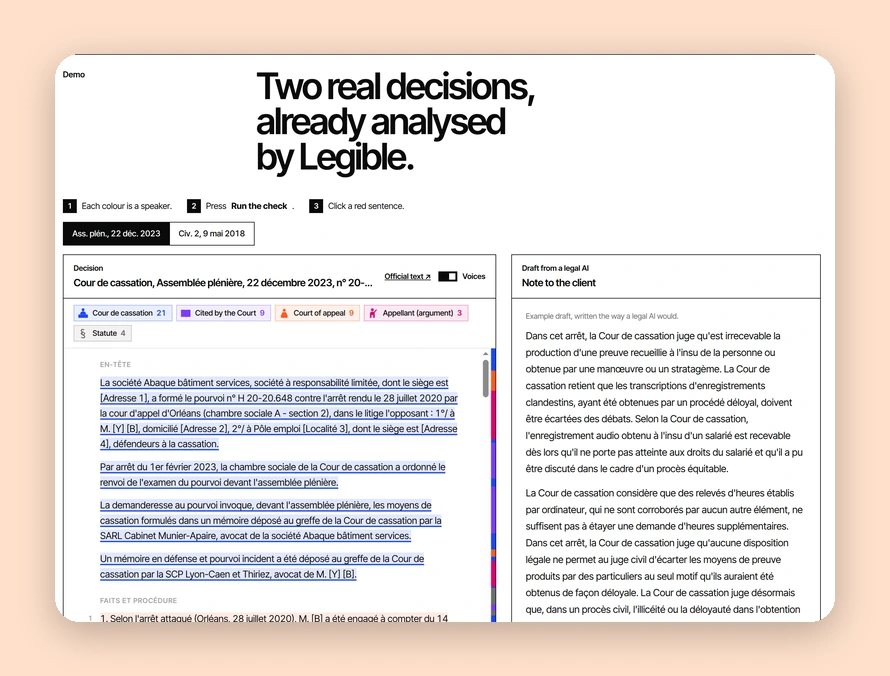
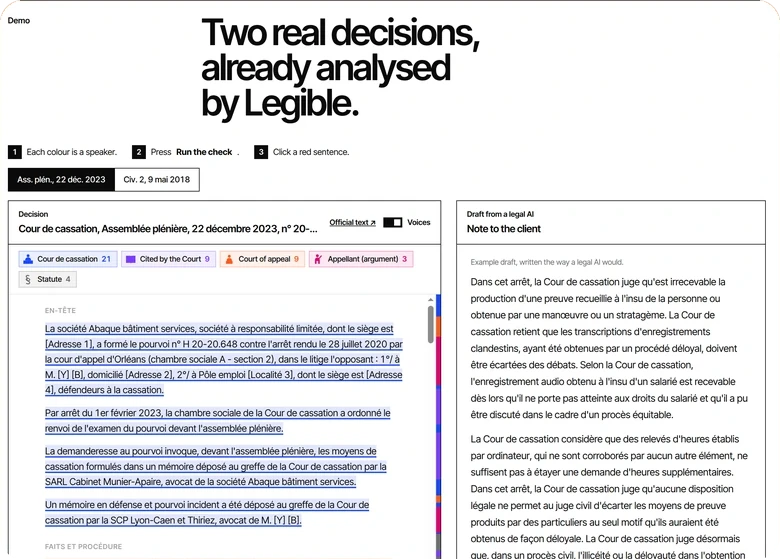
Frameless Adib phones and Legible screens

diff --git a/src/lib/data/media.js b/src/lib/data/media.js
@@ -1,27 +1,30 @@
 export const media = {
   "/work/adib/adib_cover.webp": {
     src: "/work/adib/adib_cover.webp",
-    hash: "73bcae733da7",
+    hash: "9adc3c0475ed",
     width: 1780,
     height: 1352,
     tone: "light",
-    card: {"src": "/work/adib/adib_cover_card.webp", "width": 1780, "height": 1352},
+    alpha: true,
+    card: {"src": "/work/adib/adib_cover.webp", "width": 1780, "height": 1352},
   },
   "/work/adib/adib_screenshot_1.webp": {
     src: "/work/adib/adib_screenshot_1.webp",
-    hash: "2a8f022d60b2",
+    hash: "d725a30c84ab",
     width: 1780,
     height: 1352,
     tone: "light",
-    card: {"src": "/work/adib/adib_screenshot_1_card.webp", "width": 1780, "height": 1352},
+    alpha: true,
+    card: {"src": "/work/adib/adib_screenshot_1.webp", "width": 1780, "height": 1352},
   },
   "/work/adib/adib_screenshot_2.webp": {
     src: "/work/adib/adib_screenshot_2.webp",
-    hash: "14d682c12ce4",
+    hash: "f8d72232fffc",
     width: 1780,
     height: 1352,
     tone: "light",
-    card: {"src": "/work/adib/adib_screenshot_2_card.webp", "width": 1780, "height": 1352},
+    alpha: true,
+    card: {"src": "/work/adib/adib_screenshot_2.webp", "width": 1780, "height": 1352},
   },
   "/work/dino-race/dino-race_cover.webp": {
     src: "/work/dino-race/dino-race_cover.webp",
@@ -120,28 +123,31 @@ export const media = {
     card: {"src": "/work/intellectuel-athlete/intellectuel-athlete_screenshot_2_card.webp", "width": 515, "height": 519},
   },
   "/work/legible/legible_cover.webp": {
-    src: "/work/legible/legible_cover_trim.webp",
-    hash: "ae8dfb87a279",
-    width: 835,
-    height: 622,
+    src: "/work/legible/legible_cover.webp",
+    hash: "2e3999b9903d",
+    width: 780,
+    height: 559,
     tone: "light",
-    card: {"src": "/work/legible/legible_cover_card.webp", "width": 753, "height": 547},
+    alpha: true,
+    card: {"src": "/work/legible/legible_cover.webp", "width": 780, "height": 559},
   },
   "/work/legible/legible_screenshot_1.webp": {
-    src: "/work/legible/legible_screenshot_1_trim.webp",
-    hash: "90ba414b5a12",
-    width: 832,
-    height: 623,
+    src: "/work/legible/legible_screenshot_1.webp",
+    hash: "8752d97b1f0a",
+    width: 780,
+    height: 559,
     tone: "light",
-    card: {"src": "/work/legible/legible_screenshot_1_card.webp", "width": 753, "height": 549},
+    alpha: true,
+    card: {"src": "/work/legible/legible_screenshot_1.webp", "width": 780, "height": 559},
   },
   "/work/legible/legible_screenshot_2.webp": {
-    src: "/work/legible/legible_screenshot_2_trim.webp",
-    hash: "ea39c5589c65",
-    width: 835,
-    height: 621,
+    src: "/work/legible/legible_screenshot_2.webp",
+    hash: "f1a0c5d270f7",
+    width: 780,
+    height: 559,
     tone: "light",
-    card: {"src": "/work/legible/legible_screenshot_2_card.webp", "width": 753, "height": 547},
+    alpha: true,
+    card: {"src": "/work/legible/legible_screenshot_2.webp", "width": 780, "height": 559},
   },
   "/work/miropolis/miropolis_cover.webp": {
     src: "/work/miropolis/miropolis_cover_trim.webp",

diff --git a/src/routes/work/[slug]/+page.svelte b/src/routes/work/[slug]/+page.svelte
@@ -22,6 +22,7 @@
     return {
       original: source,
       ...(image?.card ?? image ?? { src: source, width: 890, height: 676 }),
+      alpha: image?.alpha === true,
     };
   });
   let gallery = $derived.by(() => {
@@ -47,6 +48,7 @@
         original: source,
         index,
         ...(image?.card ?? image ?? { src: source, width: 890, height: 676 }),
+        alpha: image?.alpha === true,
       };
     });
   });
@@ -288,6 +290,7 @@
         <div class="project-body">
           <div
             class="hero-media media-frame reveal"
+            class:media-alpha={heroImage.alpha}
             style={`--media-aspect:${heroImage.width} / ${heroImage.height}`}
           >
             <img
@@ -317,6 +320,7 @@
               {#each gallery as image (image.original)}
                 <button
                   class="gallery-item media-frame reveal"
+                  class:media-alpha={image.alpha}
                   type="button"
                   style={`--media-aspect:${image.width} / ${image.height}`}
                   aria-label={`Open image ${image.index + 1} of ${gallery.length}`}
@@ -388,6 +392,7 @@
           >×</button>
           <img
             class="lightbox-image"
+            class:media-alpha={gallery[lightboxIndex].alpha}
             src={gallery[lightboxIndex].src}
             alt={lightboxIndex === 0 ? caseStudy.alt : ''}
             width={gallery[lightboxIndex].width}
@@ -632,6 +637,10 @@
     background: #efefef;
   }
 
+  .media-frame.media-alpha {
+    background: transparent;
+  }
+
   .hero-media {
     width: 100%;
   }
@@ -701,6 +710,10 @@
     height: 100%;
     object-fit: cover;
     transition: transform 0.6s cubic-bezier(0.2, 0.7, 0.2, 1);
+  }
+
+  .gallery-item.media-alpha img {
+    object-fit: contain;
   }
 
   .results {
@@ -814,6 +827,11 @@
       transform: scale(1.02);
     }
 
+    .gallery-item.media-alpha:hover img,
+    .gallery-item.media-alpha:focus-visible img {
+      transform: none;
+    }
+
     .all-works:hover {
       text-decoration: underline;
     }
@@ -859,6 +877,10 @@
     max-height: 72vh;
     border-radius: 12px;
     object-fit: contain;
+  }
+
+  .lightbox-image.media-alpha {
+    background: transparent;
   }
 
   .lightbox-caption {

diff --git a/src/lib/components/WorkList.svelte b/src/lib/components/WorkList.svelte
@@ -1,6 +1,7 @@
 <script>
   import { browser } from '$app/environment';
   import { page } from '$app/state';
+  import { media } from '$lib/data/media.js';
   import { projects } from '$lib/data/projects.js';
   import { richSegments } from '$lib/rich.js';
 
@@ -126,7 +127,14 @@
       </div>
       <div class="previews svelte-17ndl8v" aria-hidden="true">
         {#each project.images as src, n}
-          <img class="preview preview-{n} svelte-17ndl8v" {src} alt="" width="890" height="676" />
+          <img
+            class="preview preview-{n} svelte-17ndl8v"
+            class:preview-bare={media[src]?.alpha}
+            {src}
+            alt=""
+            width="890"
+            height="676"
+          />
         {/each}
       </div>
     </a>
@@ -211,7 +219,14 @@
       </div>
       <div class="previews svelte-17ndl8v" aria-hidden="true">
         {#each project.images as src, n}
-          <img class="preview preview-{n} svelte-17ndl8v" {src} alt="" width="890" height="676" />
+          <img
+            class="preview preview-{n} svelte-17ndl8v"
+            class:preview-bare={media[src]?.alpha}
+            {src}
+            alt=""
+            width="890"
+            height="676"
+          />
         {/each}
       </div>
     </a>

diff --git a/src/lib/styles/home.css b/src/lib/styles/home.css
@@ -193,6 +193,12 @@ canvas.svelte-17ndl8v {
   position: absolute;
   transform: translateY(64px) rotate(0) scale(0.95);
 }
+.preview-bare.svelte-17ndl8v {
+  object-fit: contain;
+  background: none;
+  border: 0;
+  border-radius: 0;
+}
 .preview-0.svelte-17ndl8v {
   top: 0;
   right: calc(2 * max(0px, min(225px, 50% - 125px)));

diff --git a/scripts/trim-media.py b/scripts/trim-media.py
@@ -128,11 +128,18 @@ def main():
     for path in sources:
         try:
             with Image.open(path) as source:
-                image = source.convert("RGB")
+                rgba = source.convert("RGBA")
+                has_alpha = rgba.getchannel("A").getextrema()[0] < 255
+                image = rgba if has_alpha else source.convert("RGB")
         except (OSError, ValueError):
             continue
 
-        if path.stem.endswith("_poster"):
+        if has_alpha:
+            top = bottom = left = right = 0
+            output_path = path
+            for suffix in ("_trim.webp", "_card.webp"):
+                path.with_name(f"{path.stem}{suffix}").unlink(missing_ok=True)
+        elif path.stem.endswith("_poster"):
             top = bottom = left = right = 0
             output_path = path
         else:
@@ -148,12 +155,22 @@ def main():
                 )
 
         with Image.open(output_path) as result:
-            result = result.convert("RGB")
+            if has_alpha:
+                result = result.convert("RGBA")
+                matte = Image.new("RGBA", result.size, "#fafafa")
+                matte.alpha_composite(result)
+                tone_image = matte.convert("RGB")
+            else:
+                tone_image = result.convert("RGB")
             width, height = result.size
-            luminance = mean_relative_luminance(result)
+            luminance = mean_relative_luminance(tone_image)
             tone = "dark" if luminance < 0.5 else "light"
 
-        if path.stem.endswith("_poster"):
+        if has_alpha:
+            card_path = path
+            card = image
+            frame_info = "alpha"
+        elif path.stem.endswith("_poster"):
             card_path = path
             card = image
             frame_info = "poster"
@@ -163,21 +180,26 @@ def main():
             card.save(card_path, "WEBP", quality=90, method=6)
 
         source_url = public_path(path)
-        manifest[source_url] = {
+        entry = {
             "src": public_path(output_path),
             "hash": hashlib.sha1(path.read_bytes()).hexdigest()[:12],
             "width": width,
             "height": height,
             "tone": tone,
-            "card": {
-                "src": public_path(card_path),
-                "width": card.width,
-                "height": card.height,
-            },
         }
+        if has_alpha:
+            entry["alpha"] = True
+        entry["card"] = {
+            "src": public_path(card_path),
+            "width": card.width,
+            "height": card.height,
+        }
+        manifest[source_url] = entry
         trim = f"top={top} bottom={bottom} left={left} right={right}" if any((top, bottom, left, right)) else "none"
         if frame_info is None:
             card_trim = "no corner frame"
+        elif frame_info == "alpha":
+            card_trim = "alpha source kept as card"
         elif frame_info == "poster":
             card_trim = "poster kept as card"
         else:
